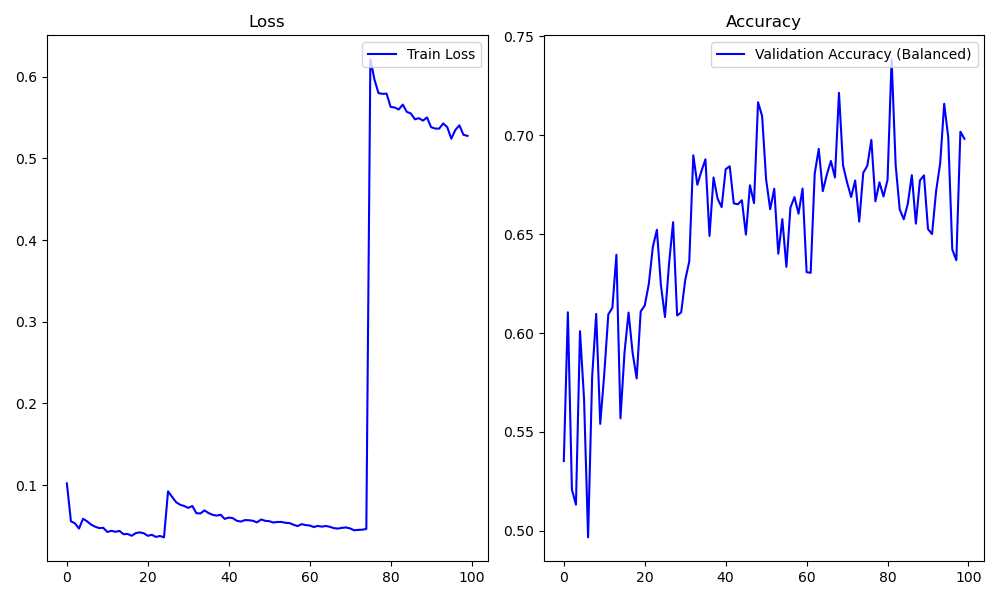
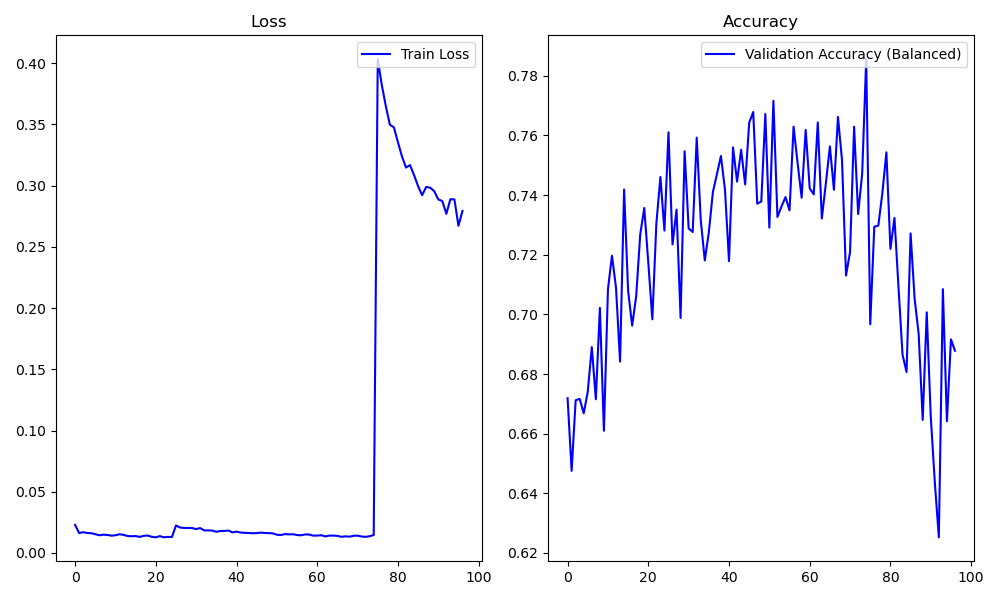
trained triplet network lower margin

diff --git a/configfile.py b/configfile.py
@@ -35,7 +35,7 @@ models = {}
 # SimCLR Model
 models["SimCLR"] = {
         "head" : ProjectionHead(embedding_dimension),
-        "loss_function" : NTXentLoss(t=0.1),
+        "loss_function" : NTXentLoss(t=0.05),
         "trainer" : SimCLRTrainer(),
         "batch_size" : 1024,
         "epochs" : 20,
@@ -46,7 +46,7 @@ models["SimCLR"] = {
 # Triplet Margin Loss Model
 models["TripletMarginLoss"] = {
         "head" : None,
-        "loss_function" : TripletLoss(margin=0.5),
+        "loss_function" : TripletLoss(margin=0.2),
         "trainer" : TripletTrainer(),
         "batch_size" : 128,
         "epochs" : 20,
